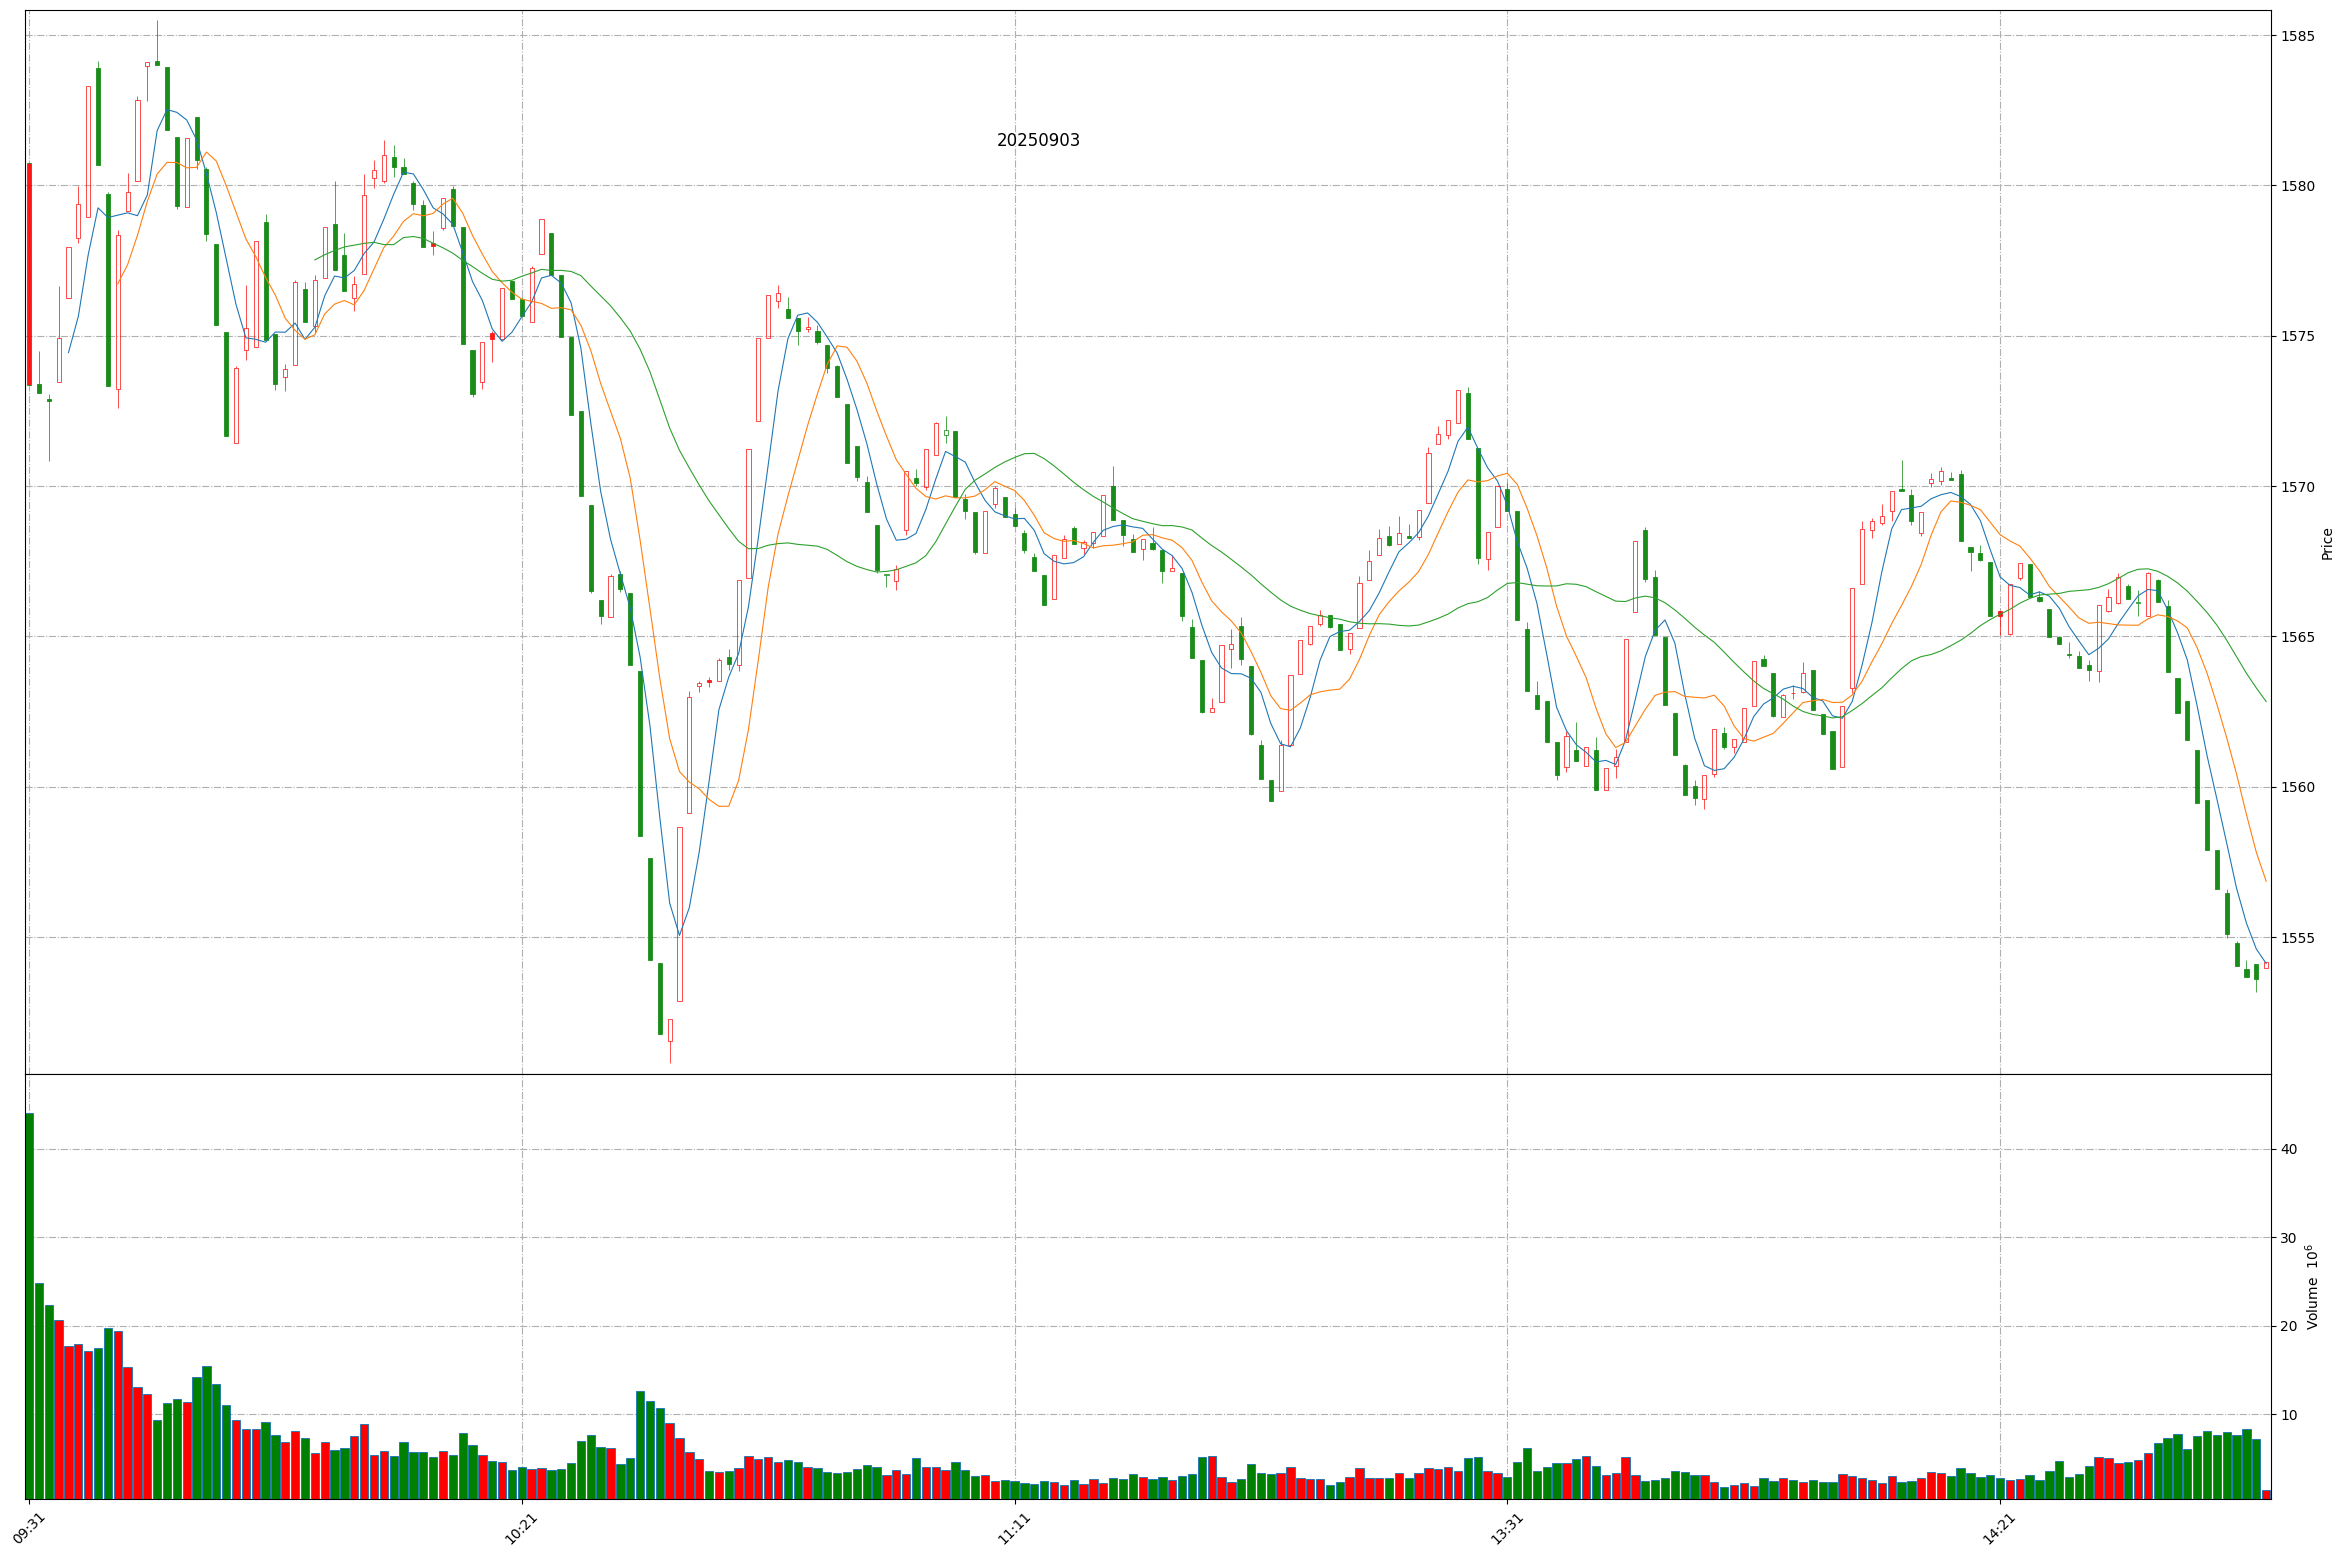
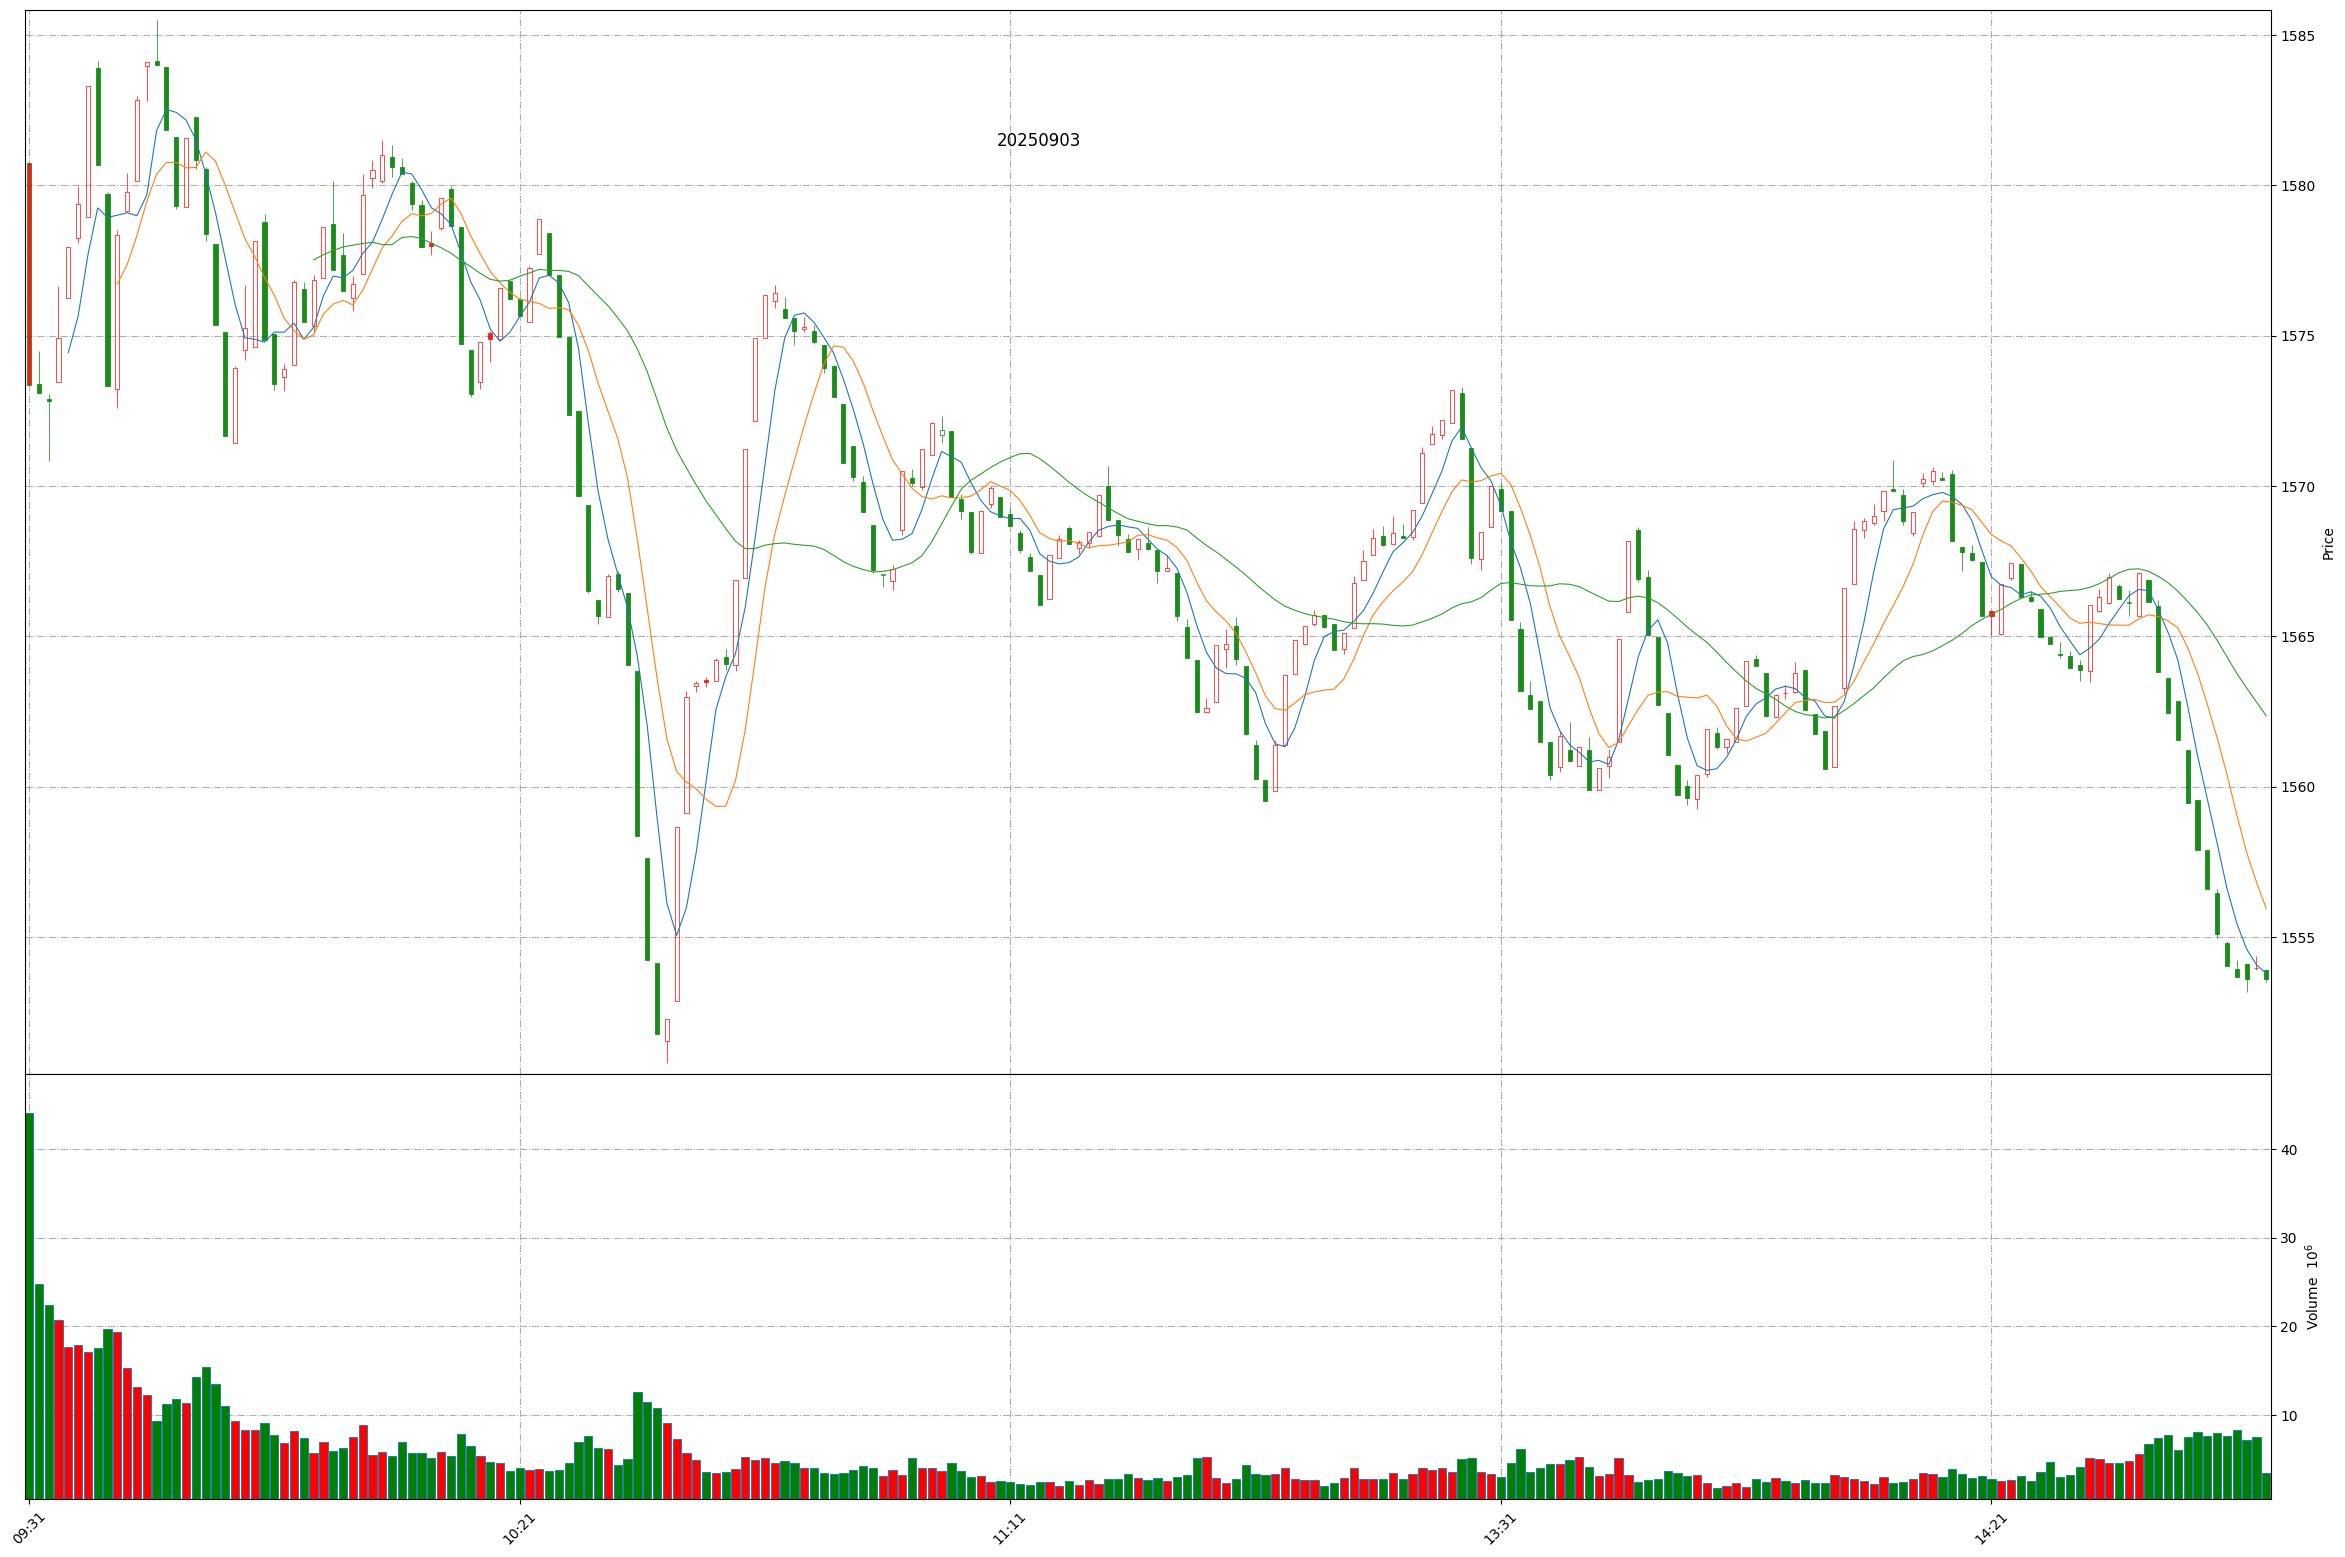
Github action update at 2025-09-03 14:48:46.

diff --git a/README.md b/README.md
@@ -1,11 +1,11 @@
 
 # Daily-A-share-market-quotes 每日 A 股指数（5min 更新）- 20250903
 
-### 上证指数 20250903 14:47
+### 上证指数 20250903 14:48
 ![](./fig/2025/9/20250903-sh000001.png)
 
-### 深证成指 20250903 14:47
+### 深证成指 20250903 14:48
 ![](./fig/2025/9/20250903-sz399001.png)
 
-### 北证50 20250903 14:47
+### 北证50 20250903 14:48
 ![](./fig/2025/9/20250903-bj899050.png)
